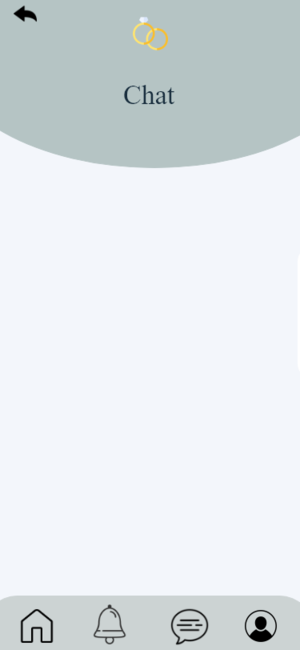
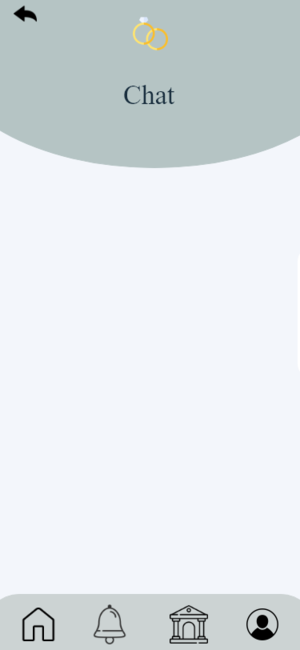
d

Changed region(s): [[0.57, 0.9231, 0.72, 1.0], [0.06, 0.9231, 0.21, 1.0], [0.81, 0.9231, 0.93, 1.0]]

diff --git a/src/project_305/OwnerPage_Hallinfo.java b/src/project_305/OwnerPage_Hallinfo.java
@@ -48,7 +48,6 @@ public class OwnerPage_Hallinfo extends javax.swing.JFrame {
         jLabel7 = new javax.swing.JLabel();
         jLabel9 = new javax.swing.JLabel();
         jLabel3 = new javax.swing.JLabel();
-        jLabel1 = new javax.swing.JLabel();
 
         setDefaultCloseOperation(javax.swing.WindowConstants.EXIT_ON_CLOSE);
 
@@ -136,10 +135,9 @@ public class OwnerPage_Hallinfo extends javax.swing.JFrame {
         );
         jPanel5Layout.setVerticalGroup(
             jPanel5Layout.createParallelGroup(javax.swing.GroupLayout.Alignment.LEADING)
-            .addGroup(javax.swing.GroupLayout.Alignment.TRAILING, jPanel5Layout.createSequentialGroup()
-                .addContainerGap(javax.swing.GroupLayout.DEFAULT_SIZE, Short.MAX_VALUE)
+            .addGroup(jPanel5Layout.createSequentialGroup()
                 .addComponent(HallPrice, javax.swing.GroupLayout.PREFERRED_SIZE, 35, javax.swing.GroupLayout.PREFERRED_SIZE)
-                .addContainerGap())
+                .addGap(0, 15, Short.MAX_VALUE))
         );
 
         jPanel1.add(jPanel5);
@@ -239,13 +237,9 @@ public class OwnerPage_Hallinfo extends javax.swing.JFrame {
         jPanel1.add(jLabel9);
         jLabel9.setBounds(240, 610, 40, 30);
 
-        jLabel3.setIcon(new javax.swing.ImageIcon(getClass().getResource("/Image/editHallinformatio.png"))); // NOI18N
+        jLabel3.setIcon(new javax.swing.ImageIcon(getClass().getResource("/Image/hallInfo_O.png"))); // NOI18N
         jPanel1.add(jLabel3);
         jLabel3.setBounds(0, 0, 300, 650);
-
-        jLabel1.setIcon(new javax.swing.ImageIcon(getClass().getResource("/Image/Hallinformation.png"))); // NOI18N
-        jPanel1.add(jLabel1);
-        jLabel1.setBounds(0, 0, 300, 650);
 
         javax.swing.GroupLayout layout = new javax.swing.GroupLayout(getContentPane());
         getContentPane().setLayout(layout);
@@ -371,7 +365,6 @@ public class OwnerPage_Hallinfo extends javax.swing.JFrame {
     private javax.swing.JTextField HallPrice;
     private javax.swing.JTextField hallAddress;
     private javax.swing.JTextField hallName;
-    private javax.swing.JLabel jLabel1;
     private javax.swing.JLabel jLabel10;
     private javax.swing.JLabel jLabel2;
     private javax.swing.JLabel jLabel3;

diff --git a/src/project_305/OwnerPage_Offers.java b/src/project_305/OwnerPage_Offers.java
@@ -78,7 +78,7 @@ public class OwnerPage_Offers extends javax.swing.JFrame {
         jLabel11 = new javax.swing.JLabel();
         jLabel2 = new javax.swing.JLabel();
         amount = new javax.swing.JTextField();
-        hallName = new javax.swing.JComboBox<>();
+        hallName = new javax.swing.JComboBox<String>();
         jLabel10 = new javax.swing.JLabel();
         jLabel1 = new javax.swing.JLabel();
 
@@ -212,7 +212,7 @@ public class OwnerPage_Offers extends javax.swing.JFrame {
         jLabel2.setForeground(new java.awt.Color(51, 51, 51));
         jLabel2.setText("Hall name:");
         jPanel1.add(jLabel2);
-        jLabel2.setBounds(20, 220, 80, 20);
+        jLabel2.setBounds(20, 220, 80, 19);
 
         amount.setFont(new java.awt.Font("Lucida Grande", 0, 15)); // NOI18N
         amount.setForeground(new java.awt.Color(51, 51, 51));
@@ -223,7 +223,7 @@ public class OwnerPage_Offers extends javax.swing.JFrame {
             }
         });
         jPanel1.add(amount);
-        amount.setBounds(140, 260, 96, 29);
+        amount.setBounds(140, 260, 96, 26);
 
         hallName.setFont(new java.awt.Font("Times New Roman", 0, 13)); // NOI18N
         hallName.setToolTipText("hall");
@@ -233,15 +233,15 @@ public class OwnerPage_Offers extends javax.swing.JFrame {
             }
         });
         jPanel1.add(hallName);
-        hallName.setBounds(100, 220, 140, 27);
+        hallName.setBounds(100, 220, 140, 22);
 
         jLabel10.setFont(new java.awt.Font("Times New Roman", 0, 16)); // NOI18N
         jLabel10.setForeground(new java.awt.Color(51, 51, 51));
         jLabel10.setText("Select the amount");
         jPanel1.add(jLabel10);
-        jLabel10.setBounds(10, 270, 118, 20);
+        jLabel10.setBounds(10, 270, 118, 19);
 
-        jLabel1.setIcon(new javax.swing.ImageIcon(getClass().getResource("/Image/page.png"))); // NOI18N
+        jLabel1.setIcon(new javax.swing.ImageIcon(getClass().getResource("/Image/page_O.png"))); // NOI18N
         jPanel1.add(jLabel1);
         jLabel1.setBounds(0, 0, 300, 650);
 

diff --git a/src/project_305/OwnerPage_Profile.java b/src/project_305/OwnerPage_Profile.java
@@ -61,7 +61,6 @@ public class OwnerPage_Profile extends javax.swing.JFrame {
         name = new javax.swing.JLabel();
         jLabel3 = new javax.swing.JLabel();
         Id = new javax.swing.JLabel();
-        jLabel8 = new javax.swing.JLabel();
         label3 = new java.awt.Label();
         jLabel1 = new javax.swing.JLabel();
 
@@ -126,11 +125,6 @@ public class OwnerPage_Profile extends javax.swing.JFrame {
         jPanel1.add(Id);
         Id.setBounds(120, 350, 80, 22);
 
-        jLabel8.setFont(new java.awt.Font("Times New Roman", 0, 30)); // NOI18N
-        jLabel8.setText("Profile");
-        jPanel1.add(jLabel8);
-        jLabel8.setBounds(110, 90, 90, 36);
-
         label3.setBackground(new java.awt.Color(255, 255, 255));
         label3.setFont(new java.awt.Font("Times New Roman", 0, 16)); // NOI18N
         label3.setText("  Account Information                  >"); // NOI18N
@@ -143,7 +137,7 @@ public class OwnerPage_Profile extends javax.swing.JFrame {
         label3.setBounds(40, 440, 230, 40);
 
         jLabel1.setFont(new java.awt.Font("Times New Roman", 0, 16)); // NOI18N
-        jLabel1.setIcon(new javax.swing.ImageIcon(getClass().getResource("/Image/Ownerp.jpg"))); // NOI18N
+        jLabel1.setIcon(new javax.swing.ImageIcon(getClass().getResource("/Image/profile_O.png"))); // NOI18N
         jLabel1.setText("Account Information          >>"); // NOI18N
         jPanel1.add(jLabel1);
         jLabel1.setBounds(0, 0, 300, 650);
@@ -252,7 +246,6 @@ public class OwnerPage_Profile extends javax.swing.JFrame {
     private javax.swing.JLabel jLabel5;
     private javax.swing.JLabel jLabel6;
     private javax.swing.JLabel jLabel7;
-    private javax.swing.JLabel jLabel8;
     private javax.swing.JLabel jLabel9;
     private javax.swing.JPanel jPanel1;
     private java.awt.Label label3;

diff --git a/src/project_305/OwnerPage_ViewReq.java b/src/project_305/OwnerPage_ViewReq.java
@@ -130,7 +130,7 @@ public class OwnerPage_ViewReq extends javax.swing.JFrame {
         NoRes.setFont(new java.awt.Font("Times New Roman", 0, 18)); // NOI18N
         NoRes.setText("No Rservation For This Hall..!");
         jPanel1.add(NoRes);
-        NoRes.setBounds(40, 400, 224, 40);
+        NoRes.setBounds(40, 400, 221, 40);
 
         jScrollPane1.setBackground(new java.awt.Color(243, 246, 251));
         jScrollPane1.setCursor(new java.awt.Cursor(java.awt.Cursor.DEFAULT_CURSOR));
@@ -219,7 +219,7 @@ public class OwnerPage_ViewReq extends javax.swing.JFrame {
         jPanel1.add(jLabel4);
         jLabel4.setBounds(210, 570, 50, 15);
 
-        jLabel1.setIcon(new javax.swing.ImageIcon(getClass().getResource("/Image/page.png"))); // NOI18N
+        jLabel1.setIcon(new javax.swing.ImageIcon(getClass().getResource("/Image/page_O.png"))); // NOI18N
         jPanel1.add(jLabel1);
         jLabel1.setBounds(0, 0, 300, 650);
 

diff --git a/src/project_305/OwnerPage_Hall.java b/src/project_305/OwnerPage_Hall.java
@@ -257,7 +257,7 @@ public class OwnerPage_Hall extends javax.swing.JFrame {
         panel1.add(jLabel6, new org.netbeans.lib.awtextra.AbsoluteConstraints(170, 610, 50, 40));
 
         jLabel1.setFont(new java.awt.Font("Times New Roman", 0, 16)); // NOI18N
-        jLabel1.setIcon(new javax.swing.ImageIcon(getClass().getResource("/Image/Ownerp.jpg"))); // NOI18N
+        jLabel1.setIcon(new javax.swing.ImageIcon(getClass().getResource("/Image/page_O.png"))); // NOI18N
         jLabel1.setText("Account Information          >>"); // NOI18N
         jLabel1.addMouseListener(new java.awt.event.MouseAdapter() {
             public void mouseClicked(java.awt.event.MouseEvent evt) {

diff --git a/src/project_305/OwnerPage_Home.java b/src/project_305/OwnerPage_Home.java
@@ -131,7 +131,7 @@ public class OwnerPage_Home extends javax.swing.JFrame {
         jPanel1.add(jLabel9);
         jLabel9.setBounds(240, 610, 40, 30);
 
-        jLabel1.setIcon(new javax.swing.ImageIcon(getClass().getResource("/Image/OwnerPage.png"))); // NOI18N
+        jLabel1.setIcon(new javax.swing.ImageIcon(getClass().getResource("/Image/home_O.png"))); // NOI18N
         jLabel1.setText("text\t  Add Hall");
         jPanel1.add(jLabel1);
         jLabel1.setBounds(0, 0, 300, 650);

diff --git a/src/project_305/OwnerPage_EditHall.java b/src/project_305/OwnerPage_EditHall.java
@@ -249,7 +249,7 @@ public class OwnerPage_EditHall extends javax.swing.JFrame {
         jPanel1.add(Hallid);
         Hallid.setBounds(110, 150, 70, 20);
 
-        jLabel1.setIcon(new javax.swing.ImageIcon(getClass().getResource("/Image/editHallinformatio.png"))); // NOI18N
+        jLabel1.setIcon(new javax.swing.ImageIcon(getClass().getResource("/Image/hallInfo_O.png"))); // NOI18N
         jPanel1.add(jLabel1);
         jLabel1.setBounds(0, 0, 300, 650);
 

diff --git a/src/project_305/OwnerPage_EditPro.java b/src/project_305/OwnerPage_EditPro.java
@@ -285,7 +285,7 @@ public class OwnerPage_EditPro extends javax.swing.JFrame {
         jPanel1.add(jLabel9);
         jLabel9.setBounds(240, 610, 40, 30);
 
-        jLabel1.setIcon(new javax.swing.ImageIcon(getClass().getResource("/Image/Editownerinfo.png"))); // NOI18N
+        jLabel1.setIcon(new javax.swing.ImageIcon(getClass().getResource("/Image/profile_O.png"))); // NOI18N
         jPanel1.add(jLabel1);
         jLabel1.setBounds(0, 0, 300, 650);
 
